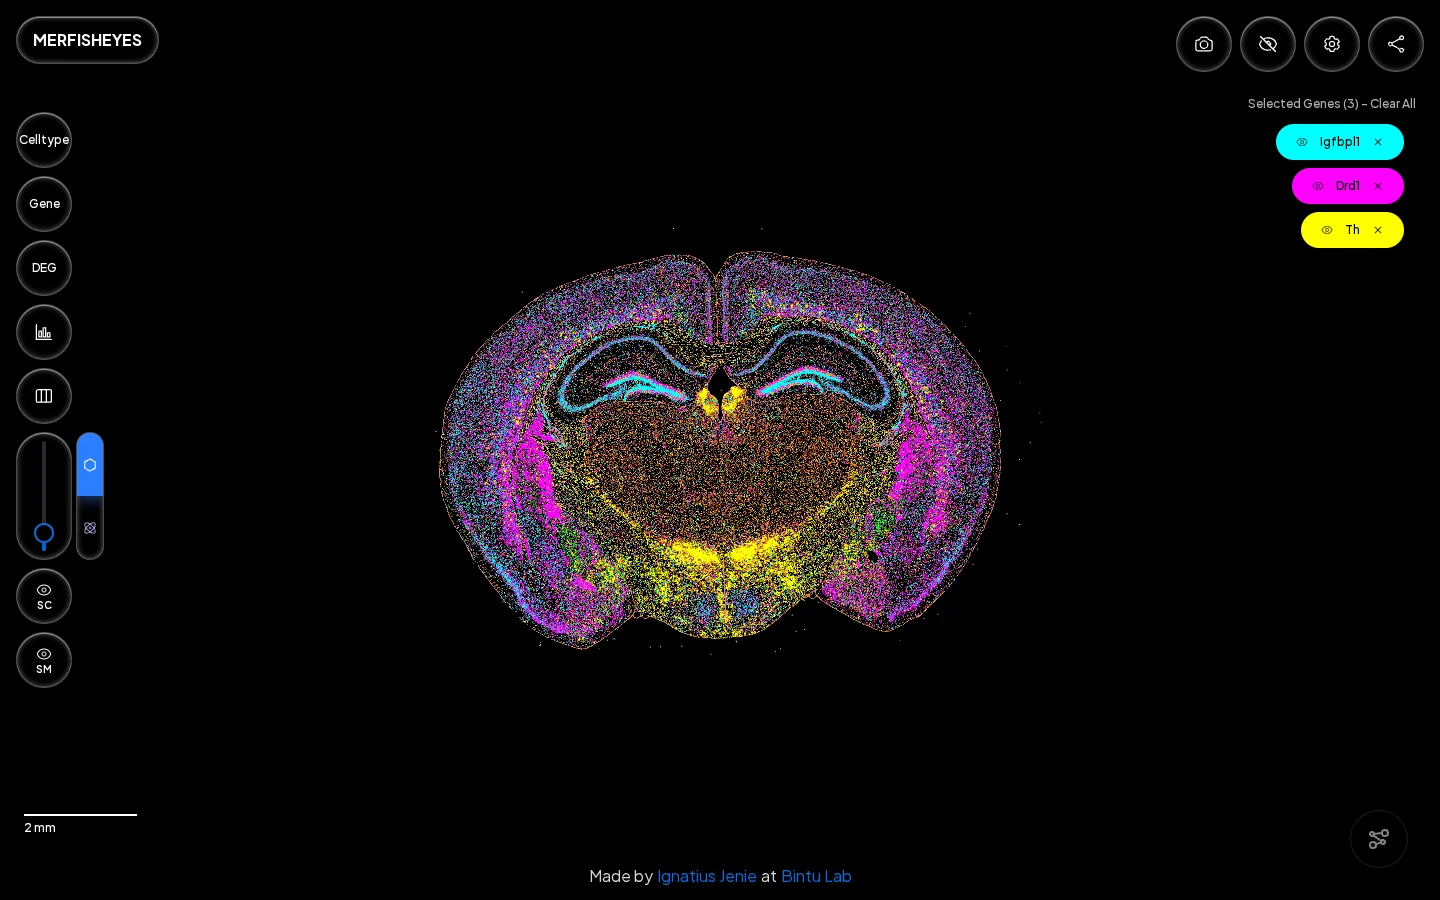
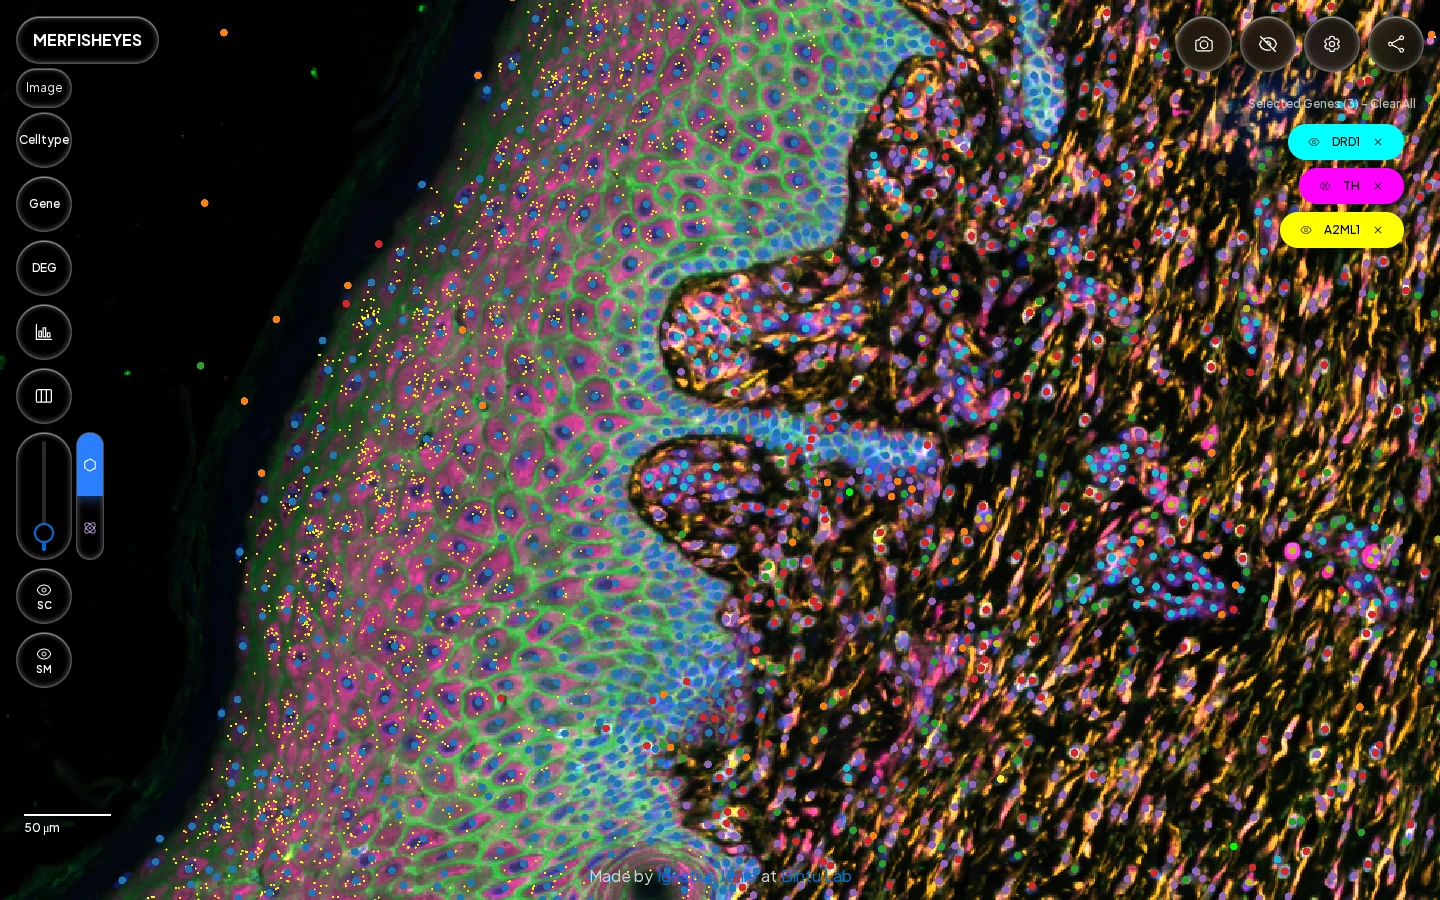
docs: show the skin store (image, cells and molecules) in the viewer figure

diff --git a/app/docs/viewer/page.tsx b/app/docs/viewer/page.tsx
@@ -22,6 +22,12 @@ export const metadata: Metadata = {
 const CONTROLS: { x: number; y: number; name: string; what: string }[] = [
   {
     x: 72,
+    y: 68,
+    name: "Image",
+    what: "Show or hide the image, and for each channel whether it is on, its colour, and its lower and upper bound.",
+  },
+  {
+    x: 72,
     y: 112,
     name: "Celltype",
     what: "Colour by a cell type, cluster or any other column; tick types to highlight them.",
@@ -85,7 +91,7 @@ const CONTROLS: { x: number; y: number; name: string; what: string }[] = [
     x: 1368,
     y: 72,
     name: "Copy link to this view",
-    what: "A link that opens exactly what you see.",
+    what: "A link that opens exactly what you see, image settings included.",
   },
   {
     x: 1268,
@@ -94,16 +100,10 @@ const CONTROLS: { x: number; y: number; name: string; what: string }[] = [
     what: "The molecule genes on screen. The eye hides one (⌘-click shows only it), × removes it, Clear All removes all.",
   },
   {
-    x: 137,
+    x: 111,
     y: 806,
     name: "Scale bar",
     what: "The length shown, in the data's units.",
-  },
-  {
-    x: 1350,
-    y: 810,
-    name: "UMAP",
-    what: "Open the cells' UMAP (or another embedding) beside the tissue.",
   },
 ];
 
@@ -114,7 +114,7 @@ function ViewerMap() {
       <div className="relative w-full overflow-hidden rounded-xl border border-default-200">
         {/* eslint-disable-next-line @next/next/no-img-element */}
         <img
-          alt="The single cell viewer showing a coronal mouse brain section coloured by MapMyCells class, with the molecules of Igfbpl1, Drd1 and Th overlaid"
+          alt="The SpatialData viewer zoomed into a skin section: the four-channel fluorescence stain underneath, cells coloured by cluster, and the molecules of DRD1, TH and A2ML1 on top"
           className="block h-auto w-full"
           height={900}
           src="/docs/viewer-overview.webp"
@@ -148,15 +148,16 @@ function ViewerMap() {
         ))}
       </ol>
       <figcaption className="text-xs text-default-500">
-        A coronal mouse brain section (140,542 cells) coloured by MapMyCells
-        class, with three molecule genes overlaid.{" "}
+        A skin section (112,551 cells, a SpatialData store) at 50 µm scale: its
+        four-channel image underneath, the cells, and three molecule genes on
+        top.{" "}
         <a
           className="text-primary hover:underline"
-          href="https://www.merfisheyes.com/viewer/from-s3?url=https%3A%2F%2Fmerfisheyes-bil.s3.us-west-2.amazonaws.com%2Fbil-psc-data2%2Face-low-bag%2Fmeyes_output&v=eyJjIjoiY2xhc3NfbmFtZSIsInZtIjoiM0QifQ&ov=eyJnZW5lcyI6W1siSWdmYnBsMSIsIiMwMEZGRkYiLDEsdHJ1ZV0sWyJEcmQxIiwiI0ZGMDBGRiIsMSx0cnVlXSxbIlRoIiwiI0ZGRkYwMCIsMSx0cnVlXV19"
+          href="https://www.merfisheyes.com/spatialdata-viewer/from-s3?url=https%3A%2F%2Fmerfisheyes-bil.s3.us-west-2.amazonaws.com%2Fspatialdata%2Fskin_adapt_v2&img=eyJjIjpbWzEsIiMzZDdkZmYiLDAsMzA4M10sWzEsIiMwMGUwNjAiLDAsNTY4M10sWzEsIiNmZjQwZDAiLDAsMjMyNV0sWzEsIiNmZmQwMDAiLDAsOTUwNV1dfQ&ov=eyJnZW5lcyI6W1siRFJEMSIsIiMwMEZGRkYiLDEsdHJ1ZV0sWyJUSCIsIiNGRjAwRkYiLDEsdHJ1ZV0sWyJBMk1MMSIsIiNGRkZGMDAiLDEsdHJ1ZV1dfQ"
           rel="noreferrer"
           target="_blank"
         >
-          Open this view
+          Open this dataset
         </a>
         .
       </figcaption>
